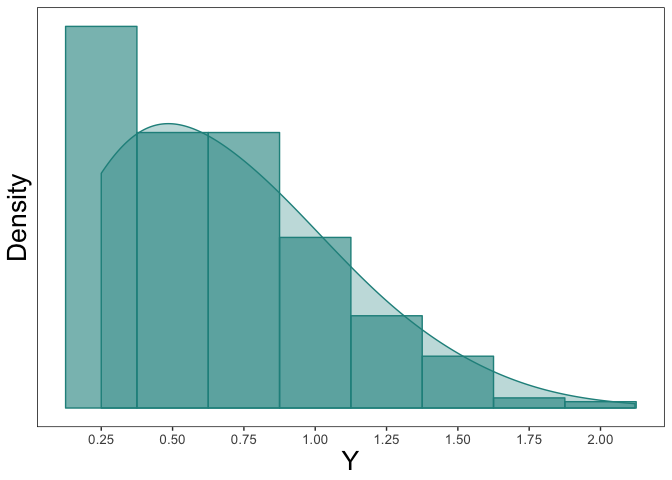
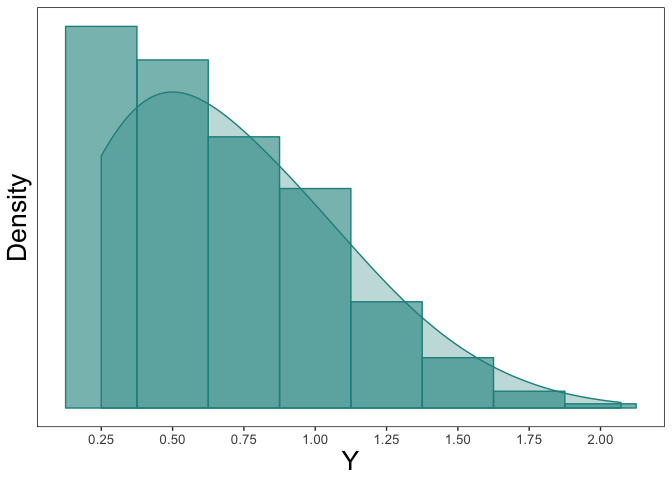
removing unneeded second case of the install tcensReg

Changed region(s): [[0.125, 0.125, 0.75, 0.7812], [0.7188, 0.7812, 0.9375, 0.8438]]

diff --git a/README.md b/README.md
@@ -34,7 +34,7 @@ y_star <- msm::rtnorm(n = 1000, mean = mu, sd = sigma, lower = a)
 range(y_star) #note that the lowerbound will always be non-negative
 ```
 
-    ## [1] 0.001470623 2.120925731
+    ## [1] 0.001101319 2.071706840
 
 Next, we can imagine a scenario where we have an imprecise measurement of *Y*<sup>\*</sup> leading to censoring. In our case we assume that values below *ν* are censored such that *a* &lt; *ν*. This creates the random variable *Y*, where
 
@@ -48,7 +48,7 @@ y <- ifelse(y_star<=nu, nu, y_star)
 sum(y==nu)/length(y) #calculating the number of censored observations
 ```
 
-    ## [1] 0.207
+    ## [1] 0.162
 
 ``` r
 dt <- data.frame(y_star, y) #collecting the uncensored and censored data together
@@ -61,59 +61,28 @@ We can then compare this to the censored observations below ![](README_files/fig
 We can then estimate *μ* and *σ* using our observed *Y* values with the `tcensReg` package as shown below.
 
 ``` r
-#installing the package for estimating truncated with censoring from the GitHub page
-devtools::install_github("williazo/tcensReg")
-```
-
-    ##   
-       checking for file ‘/private/var/folders/wr/vwwq0yqx6232hvq5f300tln80000gp/T/RtmpGqL7C1/remotes48ed5179fa/williazo-tcensReg-6f81109/DESCRIPTION’ ...
-      
-    ✔  checking for file ‘/private/var/folders/wr/vwwq0yqx6232hvq5f300tln80000gp/T/RtmpGqL7C1/remotes48ed5179fa/williazo-tcensReg-6f81109/DESCRIPTION’
-    ## 
-      
-    ─  preparing ‘tcensReg’:
-    ## 
-      
-       checking DESCRIPTION meta-information ...
-      
-    ✔  checking DESCRIPTION meta-information
-    ## 
-      
-    ─  checking for LF line-endings in source and make files and shell scripts
-    ## 
-      
-    ─  checking for empty or unneeded directories
-    ## 
-      
-    ─  building ‘tcensReg_0.0.0.9000.tar.gz’
-    ## 
-      
-       
-    ## 
-
-``` r
 library(tcensReg)  #loading the package into the current environment
 tcensReg(y ~ 1, data = dt, a = 0, v = 0.25)
 ```
 
     ## $theta
     ##               Estimate
-    ## (Intercept)  0.4583995
-    ## log_sigma   -0.6398455
+    ## (Intercept)  0.5293758
+    ## log_sigma   -0.7188691
     ## 
     ## $iterations
     ## [1] 5
     ## 
     ## $initial_ll
-    ## [1] -722.6784
+    ## [1] -650.1115
     ## 
     ## $final_ll
-    ## [1] -706.039
+    ## [1] -637.1345
     ## 
     ## $var_cov
-    ##              (Intercept)    log_sigma
-    ## (Intercept)  0.001177763 -0.001122155
-    ## log_sigma   -0.001122155  0.001788239
+    ##               (Intercept)     log_sigma
+    ## (Intercept)  0.0006970955 -0.0006984901
+    ## log_sigma   -0.0006984901  0.0014663579
 
 Note that the this will return parameter estimates, variance-covariance matrix, the number of iterations until convergence, and the initial/final log-likelihood values.
 
@@ -148,8 +117,8 @@ knitr::kable(results_df, format = "markdown", digits = 4)
 |            |      mu|   sigma|  mu\_bias|  sigma\_bias|
 |:-----------|-------:|-------:|---------:|------------:|
 | Truth      |  0.5000|  0.5000|    0.0000|       0.0000|
-| tcensReg   |  0.4584|  0.5274|    0.0416|       0.0274|
-| Normal MLE |  0.6615|  0.3754|    0.1615|       0.1246|
-| Tobit      |  0.6081|  0.4530|    0.1081|       0.0470|
+| tcensReg   |  0.5294|  0.4873|    0.0294|       0.0127|
+| Normal MLE |  0.6733|  0.3703|    0.1733|       0.1297|
+| Tobit      |  0.6356|  0.4272|    0.1356|       0.0728|
 
 Other methods result in significant bias for both *μ* and *σ*.
